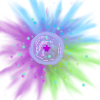
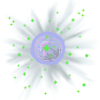
New bullet artwork and Vision Orb.

diff --git a/RunningGame/Entities/VisionOrb.cs b/RunningGame/Entities/VisionOrb.cs
@@ -10,8 +10,8 @@ namespace RunningGame.Entities {
     [Serializable()]
     public class VisionOrb : Entity {
 
-        int defaultWidth = 20;
-        int defaultHeight = 20;
+        int defaultWidth = 46;
+        int defaultHeight = 30;
 
         //-------------------------------------------Constructors--------------------------------------------
         //One takes in an ID, the other generats it.
@@ -72,31 +72,19 @@ namespace RunningGame.Entities {
              * So, if it was 5, you would be on one frame for 5 seconds, then switch to the next, then 5 seconds later
              * It'd switch to the next etc, etc...
              */
-            addComponent( new AnimationComponent( 0.05f ) );
+            addComponent( new AnimationComponent( 0.2f ) );
 
 
             List<string> anim = new List<string>()
             {
-                "Artwork.Foreground.Orb0",
-                "Artwork.Foreground.Orb1",
-                "Artwork.Foreground.Orb2",
-                "Artwork.Foreground.Orb3",
-                "Artwork.Foreground.Orb4",
-                "Artwork.Foreground.Orb3",
-                "Artwork.Foreground.Orb2",
-                "Artwork.Foreground.Orb1"
+                "Artwork.Creatures.vision_orb1",
+                "Artwork.Creatures.vision_orb2",
             };
 
             List<string> animDefaults = new List<string>()
             {
-                "RunningGame.Resources.Artwork.Foreground.Orb0.png",
-                "RunningGame.Resources.Artwork.Foreground.Orb1.png",
-                "RunningGame.Resources.Artwork.Foreground.Orb2.png",
-                "RunningGame.Resources.Artwork.Foreground.Orb3.png",
-                "RunningGame.Resources.Artwork.Foreground.Orb4.png",
-                "RunningGame.Resources.Artwork.Foreground.Orb3.png",
-                "RunningGame.Resources.Artwork.Foreground.Orb2.png",
-                "RunningGame.Resources.Artwork.Foreground.Orb1.png"
+                "RunningGame.Resources.Artwork.Creatures.vision_orb1.png",
+                "RunningGame.Resources.Artwork.Creatures.vision_orb2.png",
             };
 
             drawComp.addAnimatedSprite( anim, animDefaults, "MainAnim" );

diff --git a/RunningGame/Entities/BulletEntity.cs b/RunningGame/Entities/BulletEntity.cs
@@ -62,15 +62,13 @@ namespace RunningGame.Entities {
             List<string> bulletAnimation = new List<string>()
             {
                 "Artwork.Foreground.Bullet.Bullet1",
-                "Artwork.Foreground.Bullet.Bullet2",
-                "Artwork.Foreground.Bullet.Bullet3"
+                "Artwork.Foreground.Bullet.Bullet2"
             };
 
             List<string> bulletAnimDefaults = new List<string>()
             {
                 "RunningGame.Resources.Artwork.Foreground.Bullet.Bullet111",
-                "RunningGame.Resources.Artwork.Foreground.Bullet.Bullet211",
-                "RunningGame.Resources.Artwork.Foreground.Bullet.Bullet311"
+                "RunningGame.Resources.Artwork.Foreground.Bullet.Bullet211"
             };
 
             
